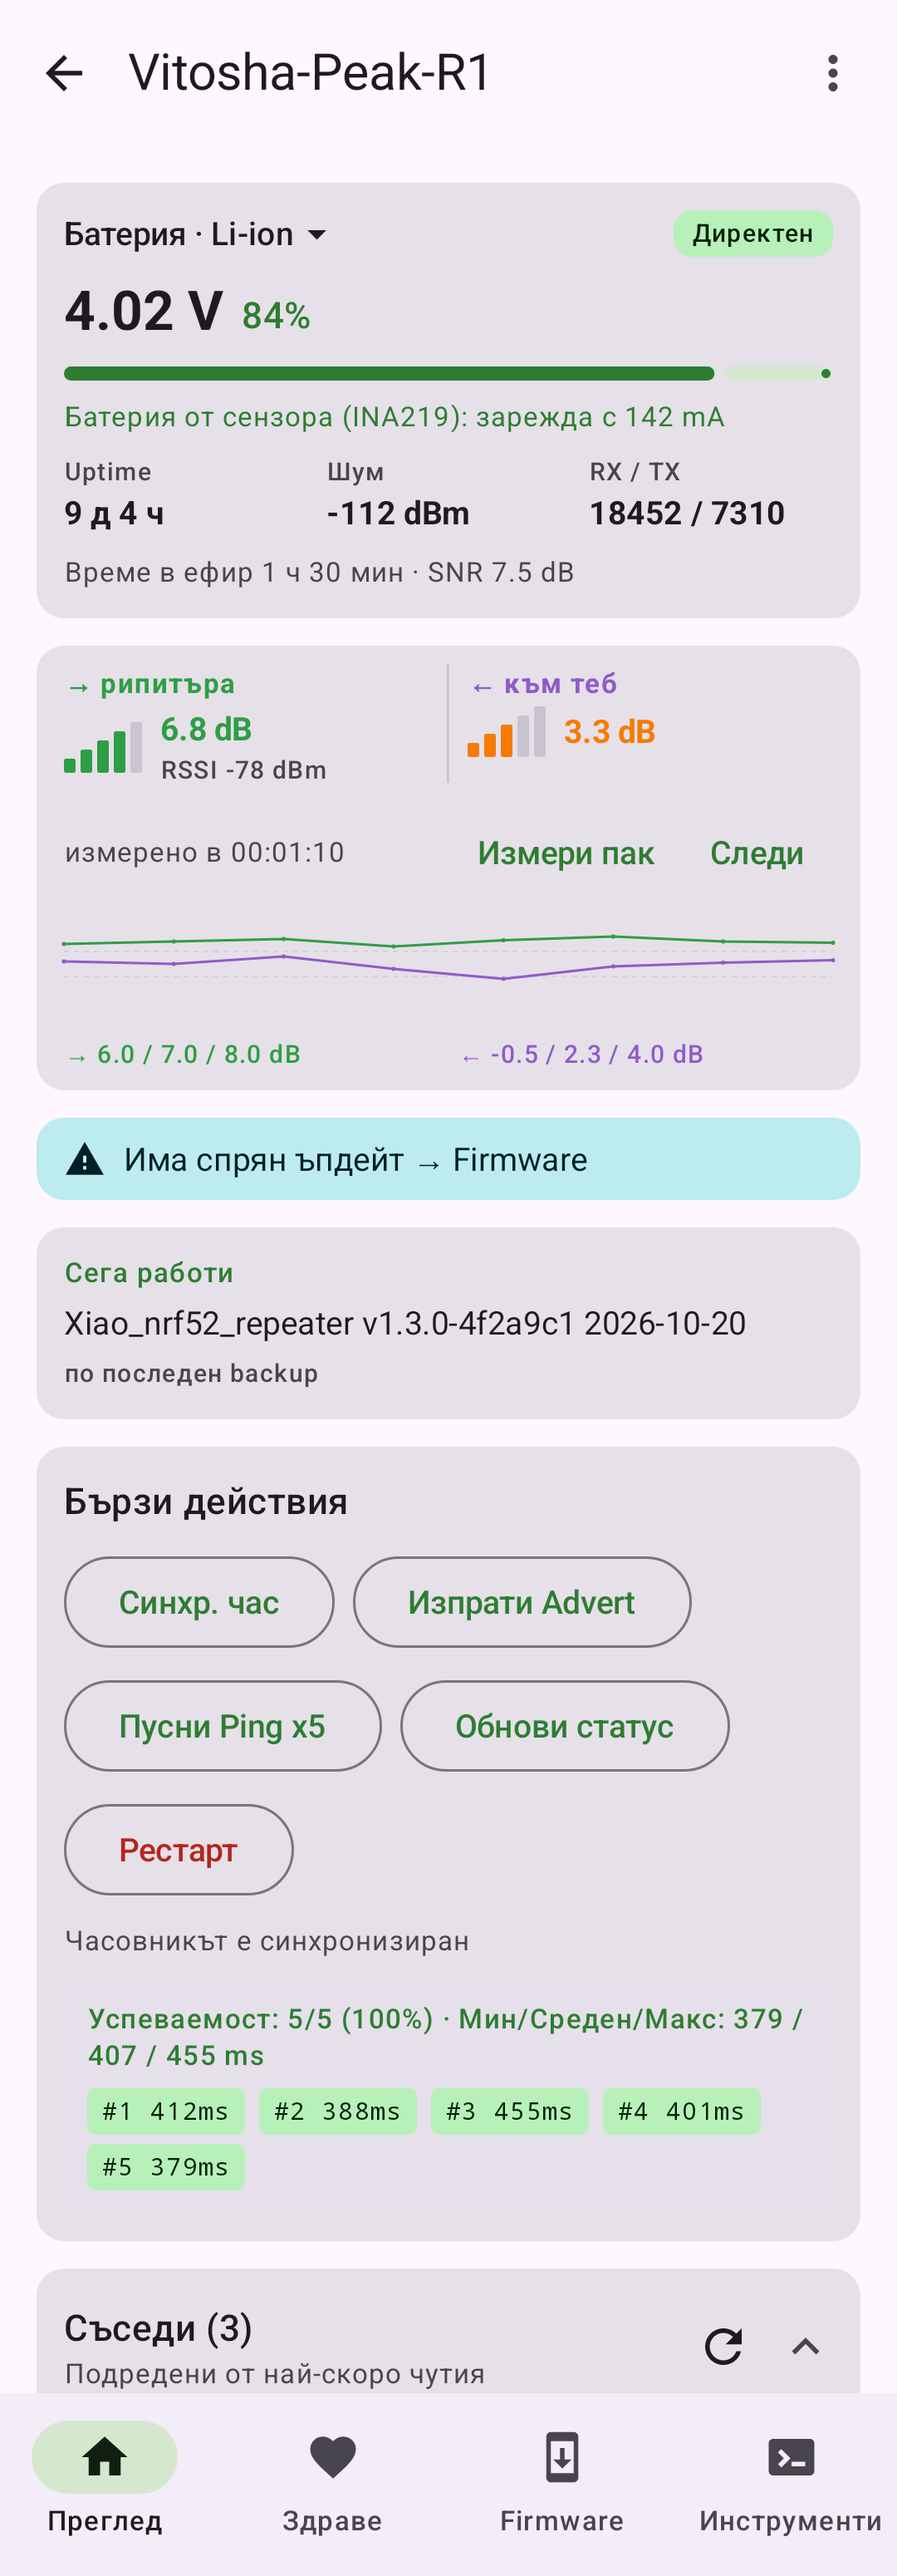
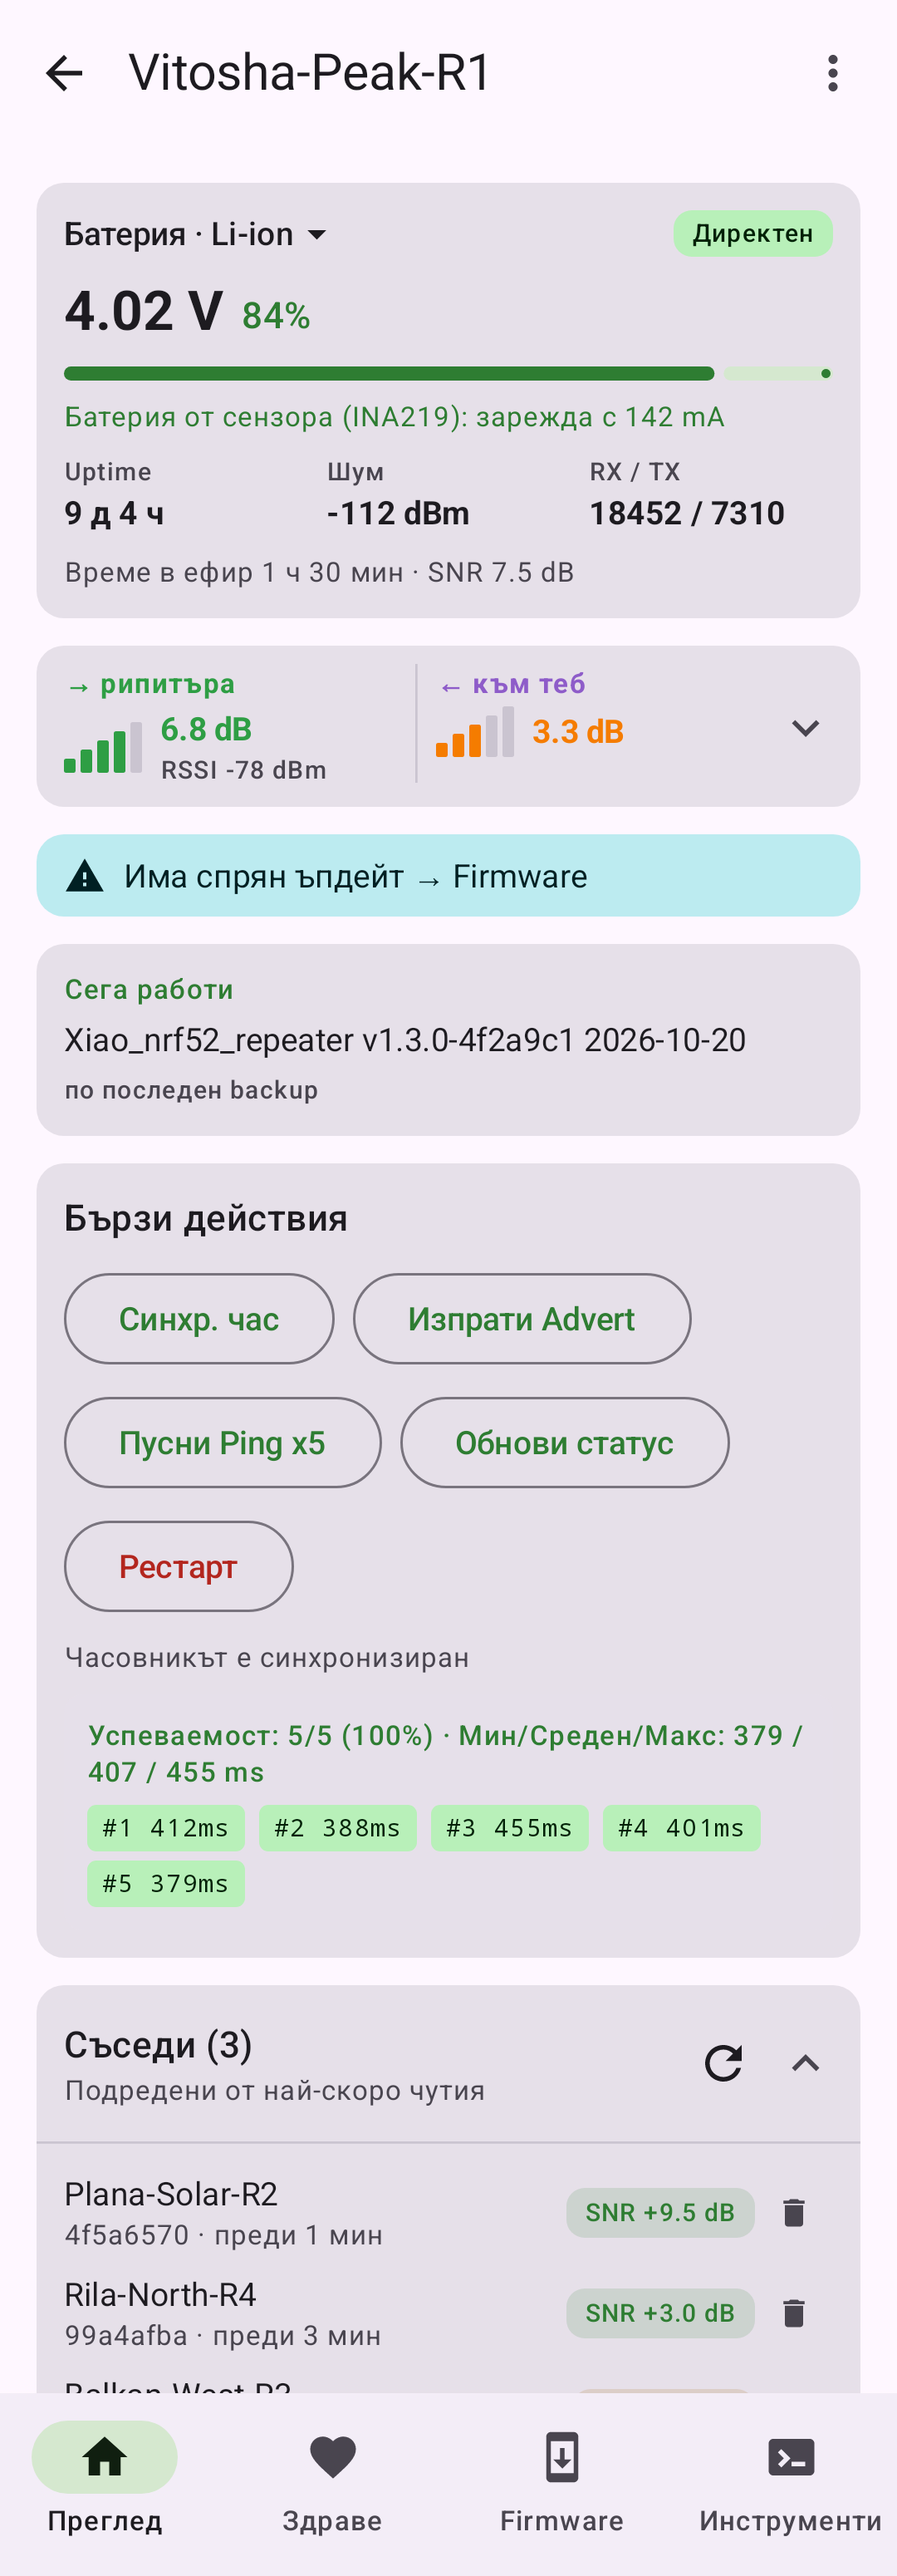
Collapse the signal card to its bars row by default
The link card on the overview shows only the two sides with a chevron
(and a spinner while measuring); tapping the header expands hops, notes,
buttons and the follow graph. The state is kept in the view model.

Claude-Session: https://claude.ai/code/session_01P5Km7y9HN364ojjGATyfz1

diff --git a/android/app/src/main/kotlin/io/github/n3tk0/loraota/ui/LinkCard.kt b/android/app/src/main/kotlin/io/github/n3tk0/loraota/ui/LinkCard.kt
@@ -1,6 +1,11 @@
 package io.github.n3tk0.loraota.ui
 
+import androidx.compose.animation.AnimatedVisibility
 import androidx.compose.foundation.Canvas
+import androidx.compose.material.icons.Icons
+import androidx.compose.material.icons.filled.KeyboardArrowDown
+import androidx.compose.material.icons.filled.KeyboardArrowUp
+import androidx.compose.material3.Icon
 import androidx.compose.foundation.background
 import androidx.compose.foundation.layout.Arrangement
 import androidx.compose.foundation.clickable
@@ -186,16 +191,33 @@ internal fun LinkCard(vm: AppViewModel) {
     val out = vm.linkOut ?: if (direct) s?.lastSnr?.takeIf { vm.linkTime == 0L } else s?.lastSnr
     val inn = vm.linkIn
     val noTrace = hops == null || vm.linkState == LinkState.NOT_DIRECT
+    val expanded = vm.linkCardExpanded
+    val toggleDesc = stringResource(if (expanded) R.string.link_hide_details else R.string.link_show_details)
     Card(Modifier.fillMaxWidth()) {
         Column(Modifier.padding(horizontal = 12.dp, vertical = 8.dp), verticalArrangement = Arrangement.spacedBy(4.dp)) {
-            Row(Modifier.fillMaxWidth(), verticalAlignment = Alignment.Top) {
+            Row(
+                Modifier.fillMaxWidth().clickable(role = Role.Button, onClickLabel = toggleDesc) { vm.linkCardExpanded = !expanded },
+                verticalAlignment = Alignment.Top,
+            ) {
                 val lastHop = if (direct) null else if (routeView != null && vm.linkOut != null) {
                     pluralStringResource(R.plurals.link_weakest, hops!!, hops)
                 } else stringResource(R.string.link_last_hop)
                 LinkSide(stringResource(R.string.link_out), OUT_COLOR, out, if (routeView == null) s?.lastRssi else null, lastHop, Modifier.weight(1f))
                 VerticalDivider(Modifier.height(52.dp).padding(horizontal = 8.dp))
                 LinkSide(stringResource(R.string.link_in), IN_COLOR, inn, null, null, Modifier.weight(1f))
+                Column(Modifier.padding(start = 4.dp), horizontalAlignment = Alignment.CenterHorizontally) {
+                    Box(Modifier.size(16.dp), contentAlignment = Alignment.Center) {
+                        if (vm.linkState == LinkState.MEASURING) CircularProgressIndicator(Modifier.size(14.dp), strokeWidth = 1.5.dp)
+                    }
+                    Icon(
+                        if (expanded) Icons.Default.KeyboardArrowUp else Icons.Default.KeyboardArrowDown,
+                        contentDescription = toggleDesc,
+                        tint = MaterialTheme.colorScheme.onSurfaceVariant,
+                    )
+                }
             }
+            AnimatedVisibility(expanded) {
+              Column(verticalArrangement = Arrangement.spacedBy(4.dp)) {
             if (direct) asymmetryText(vm.linkOut, vm.linkIn)?.let {
                 Text(it, style = MaterialTheme.typography.labelSmall, color = Color(0xFFF57C00))
             }
@@ -264,6 +286,8 @@ internal fun LinkCard(vm: AppViewModel) {
             }
             if (vm.linkSamples.size >= 2) {
                 LinkGraph(vm.linkSamples, OUT_COLOR, IN_COLOR)
+            }
+              }
             }
         }
     }

diff --git a/android/app/src/main/kotlin/io/github/n3tk0/loraota/ui/AppViewModel.kt b/android/app/src/main/kotlin/io/github/n3tk0/loraota/ui/AppViewModel.kt
@@ -210,6 +210,8 @@ class AppViewModel(app: Application) : AndroidViewModel(app) {
     var linkTime by mutableStateOf(0L)
     var linkSamples by mutableStateOf<List<LinkSample>>(emptyList())
     var following by mutableStateOf(false)
+    /** The signal card on the overview shows only its bars row until opened; kept for the session. */
+    var linkCardExpanded by mutableStateOf(false)
     var followLeft by mutableStateOf(0)             // traces left of the two minutes
     private val linkFollow = LinkFollow()
     private var followJob: Job? = null

diff --git a/android/app/src/test/kotlin/io/github/n3tk0/loraota/screens/ScreenshotsTest.kt b/android/app/src/test/kotlin/io/github/n3tk0/loraota/screens/ScreenshotsTest.kt
@@ -240,6 +240,7 @@ class ScreenshotsTest {
         vm.linkOut = route.weakestOut
         vm.linkIn = route.weakestIn
         vm.directState = LinkState.NO_REPLY
+        vm.linkCardExpanded = true
         app(vm)
     }
 
